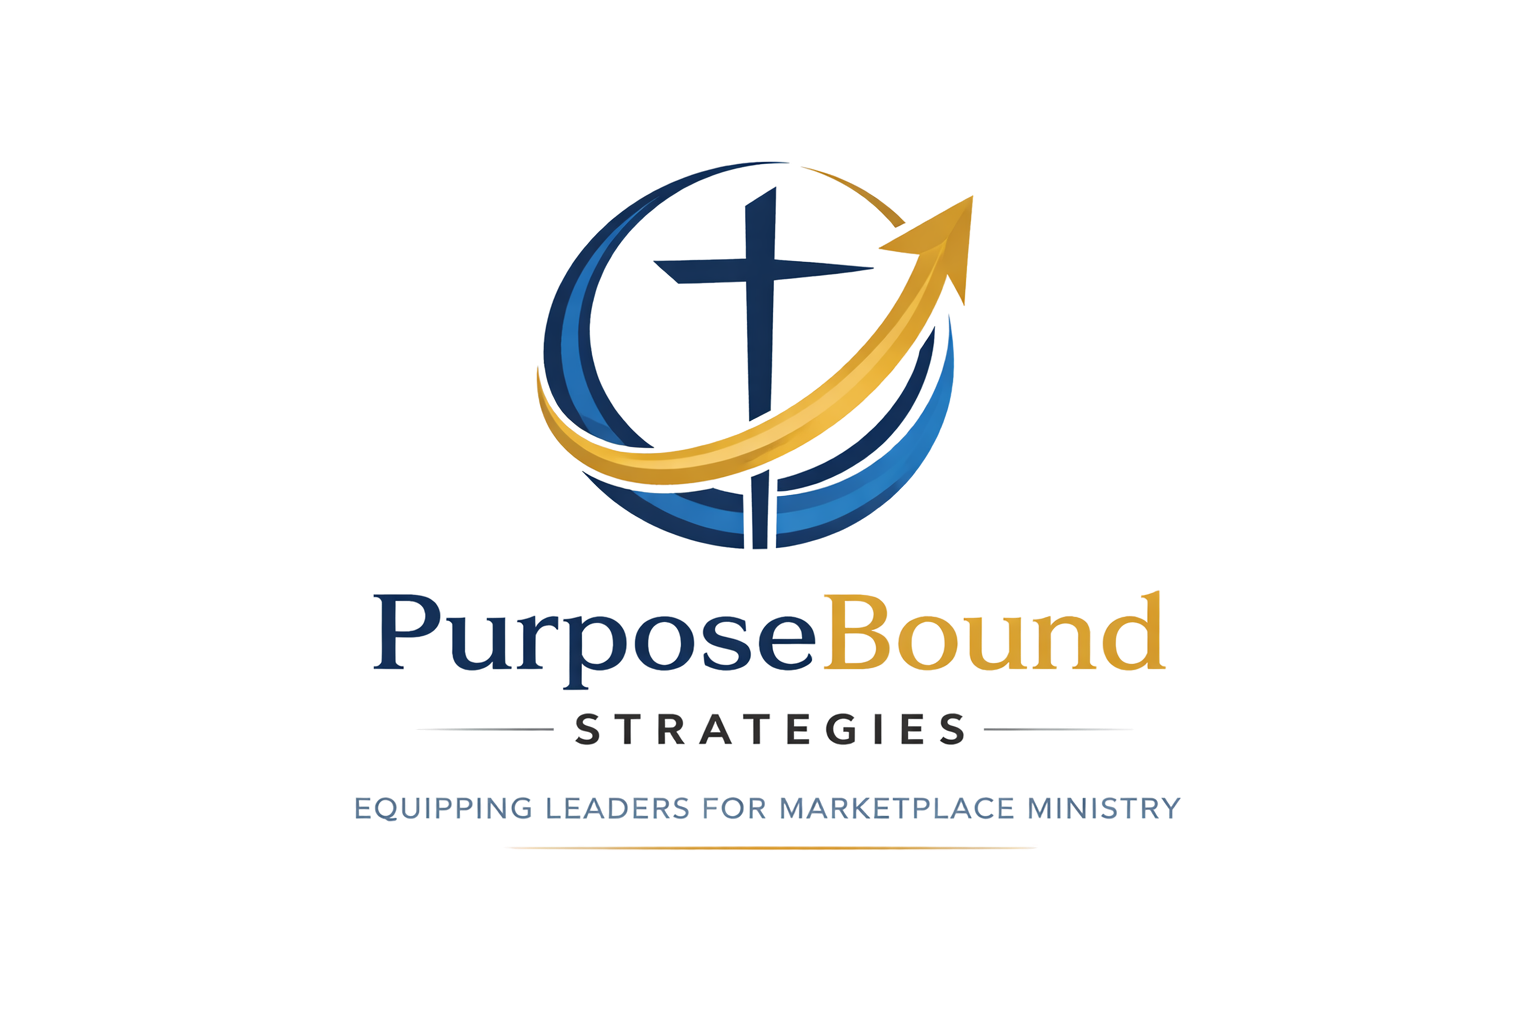
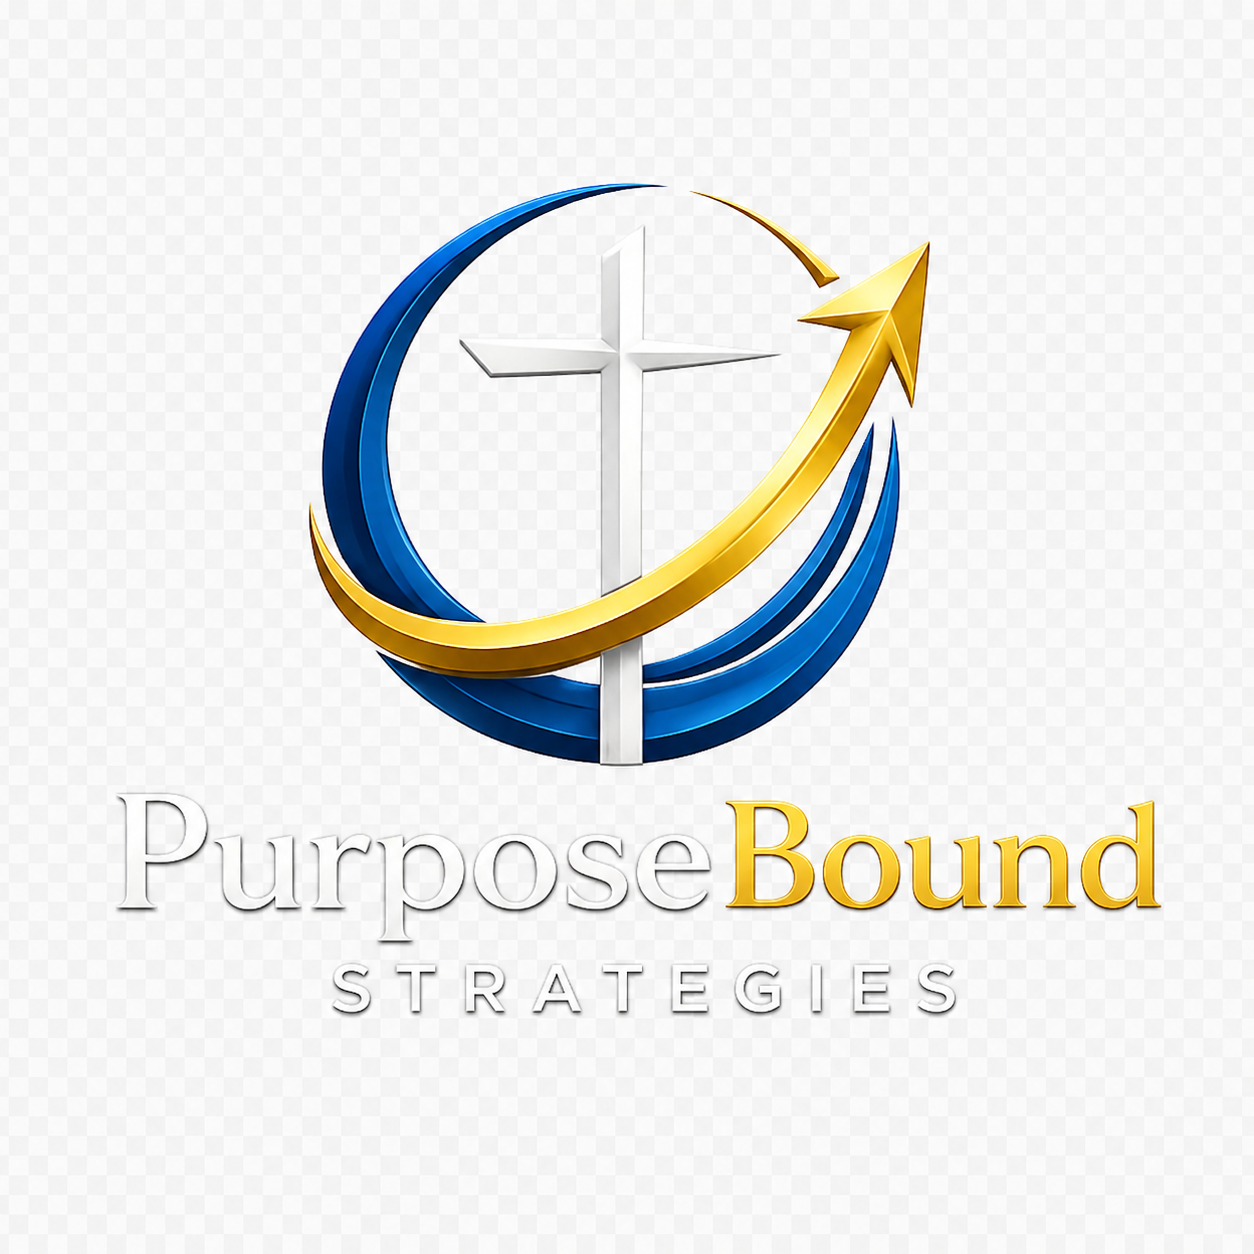
content: apply 6/3/26 client revisions + 5 Pillars lead-capture flow
Client-requested site updates (review build):
- Hero: swap to new dark-background PurposeBound logo; restore eyebrow to
  "Marketplace Ministry / Discipleship / Spiritual Leadership"
- Credentials: drop state-championship line, add "25+ Years Building
  Leaders, Teams, and Kingdom Impact | 250+ People Developed" (option C)
- Meet Tory + My Story copy edits; "corporate" -> "marketplace ministry"
- Coaching service: "stewarding" -> "shepherding" session line

5 Pillars lead magnet:
- Expand LeadMagnetForm to capture Name, Business, # Employees, Email,
  Phone via Netlify Forms; PDF added to public/ and registered in
  theme.config; /thank-you now serves an instant gated download

Blog (#9): add 4 LinkedIn-sourced posts as a content collection on /blog,
plus the missing /blog/[...slug] detail route (renders on its own page,
not the homepage).

Migration-debt fixes uncovered by the build/E2E run (pre-existing):
- Nav.astro referenced undefined `base` -> broke every page build
- playwright BASE_PATH still pointed at the old GitHub Pages prefix;
  realign to root and update thank-you/blog/alt assertions to match
  current behavior

Changed region(s): [[0.0933, 0.125, 0.933, 0.8438]]

diff --git a/tests/e2e/site.spec.ts b/tests/e2e/site.spec.ts
@@ -63,12 +63,22 @@ test.describe('Lead Magnet Form', () => {
     const emailInput = page.locator('input[type="email"]');
     await expect(emailInput).toHaveAttribute('required');
   });
+
+  test('captures full contact details', async ({ page }) => {
+    await page.goto(r('/start'));
+    const form = page.locator('form[name="lead-magnet"]');
+    for (const field of ['name', 'business', 'employees', 'email', 'phone']) {
+      await expect(form.locator(`input[name="${field}"]`)).toHaveAttribute('required');
+    }
+  });
 });
 
 test.describe('/thank-you page', () => {
-  test('shows confirmation and Calendly CTA', async ({ page }) => {
+  test('shows the gated download and a Calendly CTA', async ({ page }) => {
     await page.goto(r('/thank-you'));
-    await expect(page.locator('h1')).toContainText('on its way');
+    await expect(page.locator('h1')).toContainText('ready');
+    const download = page.getByRole('link', { name: /Download the Guide/i });
+    await expect(download).toHaveAttribute('href', '/5-pillars-christ-centered-sales-culture.pdf');
     const cta = page.getByRole('link', { name: /Let's Talk/i });
     await expect(cta).toBeVisible();
   });
@@ -94,10 +104,17 @@ test.describe('/services page', () => {
 });
 
 test.describe('/blog page', () => {
-  test('loads with empty state message', async ({ page }) => {
+  test('loads and lists published posts', async ({ page }) => {
     await page.goto(r('/blog'));
     await expect(page.locator('h1')).toContainText('Thinking Out Loud');
-    await expect(page.getByText(/First post coming soon/i)).toBeVisible();
+    await expect(page.getByRole('heading', { name: /Hearing From God/i })).toBeVisible();
+  });
+
+  test('a post links through to its detail page', async ({ page }) => {
+    await page.goto(r('/blog'));
+    await page.getByRole('link', { name: /Hearing From God/i }).click();
+    await expect(page.locator('h1')).toContainText('Hearing From God');
+    await expect(page.getByRole('link', { name: /Back to all posts/i })).toBeVisible();
   });
 });
 
@@ -110,13 +127,10 @@ test.describe('/contact page', () => {
 });
 
 test.describe('/alt page', () => {
-  test('loads and shows redesigned headline', async ({ page }) => {
+  // The alt design was promoted to the homepage; /alt now redirects to /.
+  test('redirects to the homepage', async ({ page }) => {
     await page.goto(r('/alt'));
+    await expect(page).toHaveURL(/localhost:\d+\/$/);
     await expect(page.locator('h1')).toContainText('Something Greater');
-  });
-
-  test('has alternative site label', async ({ page }) => {
-    await page.goto(r('/alt'));
-    await expect(page.getByText(/Alternative Design/i)).toBeVisible();
   });
 });

diff --git a/theme.config.ts b/theme.config.ts
@@ -67,13 +67,15 @@ export const theme = {
     { name: '$20–25M Revenue Oversight', url: '' },
     { name: 'Domestic & International Mission Leadership', url: '' },
     { name: 'Ministry Integration & Operational Leadership', url: '' },
-    { name: '2 TAPPS State Championships', url: '' },
+    { name: '25+ Years Building Leaders, Teams, and Kingdom Impact | 250+ People Developed', url: '' },
     { name: 'M.S. Leadership & Professional Development', url: '' },
   ],
   leadMagnet: {
     title: 'The 5 Pillars of a Christ-Centered Sales Culture',
     description:
       'A practical framework for faith-driven leaders who want to build something that lasts.',
+    // Gated download — delivered on /thank-you after the capture form is submitted.
+    file: '/5-pillars-christ-centered-sales-culture.pdf',
     bullets: [
       'The biblical foundation for ethical selling',
       'How to build a team culture rooted in integrity',

diff --git a/playwright.config.ts b/playwright.config.ts
@@ -1,7 +1,8 @@
 import { defineConfig } from '@playwright/test';
 
 const PORT = process.env.PORT ? parseInt(process.env.PORT) : 4321;
-export const BASE_PATH = '/purposebound-strategies';
+// Site deploys at root on Netlify (no base path in astro.config.mjs).
+export const BASE_PATH = '';
 const BASE_URL = `http://localhost:${PORT}`;
 
 export default defineConfig({

diff --git a/src/content/blog/hearing-from-god.md b/src/content/blog/hearing-from-god.md
@@ -1,0 +1,18 @@
+---
+title: "Hearing From God"
+description: "A takeaway from the Kingdom at Work Leadership Workshop: learning to lead from His presence, not the noise."
+pubDate: 2026-05-12
+author: "Tory Bryant"
+draft: false
+---
+
+I recently attended the Kingdom at Work Kingdom Leadership Workshop. One breakout session that deeply impacted me was "Hearing From God," led by Casey Brewer and his wife, Dana. They knocked it out of the park!
+
+A few key takeaways to reflect on:
+
+- God's voice brings peace, clarity, and comfort.
+- The world's voice brings shame, chaos, and confusion.
+
+True spiritual leadership means learning to lead from His presence, not the noise.
+
+How do you quiet the noise to hear God's direction in your daily leadership? Share below.

diff --git a/src/content/blog/your-work-is-your-witness.md b/src/content/blog/your-work-is-your-witness.md
@@ -1,0 +1,17 @@
+---
+title: "Your Work Is Your Witness"
+description: "Excellence isn't a standard the world set — it's a standard God set, and it shows up in how you lead every day."
+pubDate: 2026-05-19
+author: "Tory Bryant"
+draft: false
+---
+
+A word of encouragement for you today — may this encourage your heart.
+
+Excellence isn't a standard the world set. It's a standard God set. It shows up in how you lead every single day. Consistency. Integrity. Quality. Not for applause, for a higher purpose.
+
+> "Whatever you do, work heartily, as for the Lord and not for men." — Colossians 3:23 (ESV)
+
+Your work is your witness.
+
+Where are you being called to a higher standard in the marketplace and your life?

diff --git a/src/content/blog/guarding-your-integrity.md b/src/content/blog/guarding-your-integrity.md
@@ -1,0 +1,15 @@
+---
+title: "Guard Your Integrity When No One Is Watching"
+description: "What you compromise in private will eventually show up in your leadership, your team culture, and your business decisions."
+pubDate: 2026-05-26
+author: "Tory Bryant"
+draft: false
+---
+
+What you compromise in private will eventually show up in your leadership, in your team culture, and your business decisions.
+
+King David was a strong leader, but private decisions carried public consequences. Spiritual leadership means guarding your integrity when no one is watching. Your business, your team, and your calling depend on it.
+
+Where do you need to guard your integrity today?
+
+📖 2 Samuel 11–12

diff --git a/src/content/blog/your-setback-is-not-your-story.md b/src/content/blog/your-setback-is-not-your-story.md
@@ -1,0 +1,15 @@
+---
+title: "Your Setback Today Is Not Your Story Tomorrow"
+description: "Every leader stumbles. In the marketplace and in life, failure is not the finish line — it's part of the journey."
+pubDate: 2026-06-02
+author: "Tory Bryant"
+draft: false
+---
+
+Every leader stumbles. Your setback today is not your story tomorrow.
+
+> "When you stumble today, pick yourself up tomorrow." — John Mason, *Momentum Builders*
+
+In the marketplace and in life, failure is not the finish line. It's part of the journey. The marketplace needs leaders who are resilient, honest, and willing to keep moving forward despite stumbling.
+
+Get back up. Adjust. Keep leading.